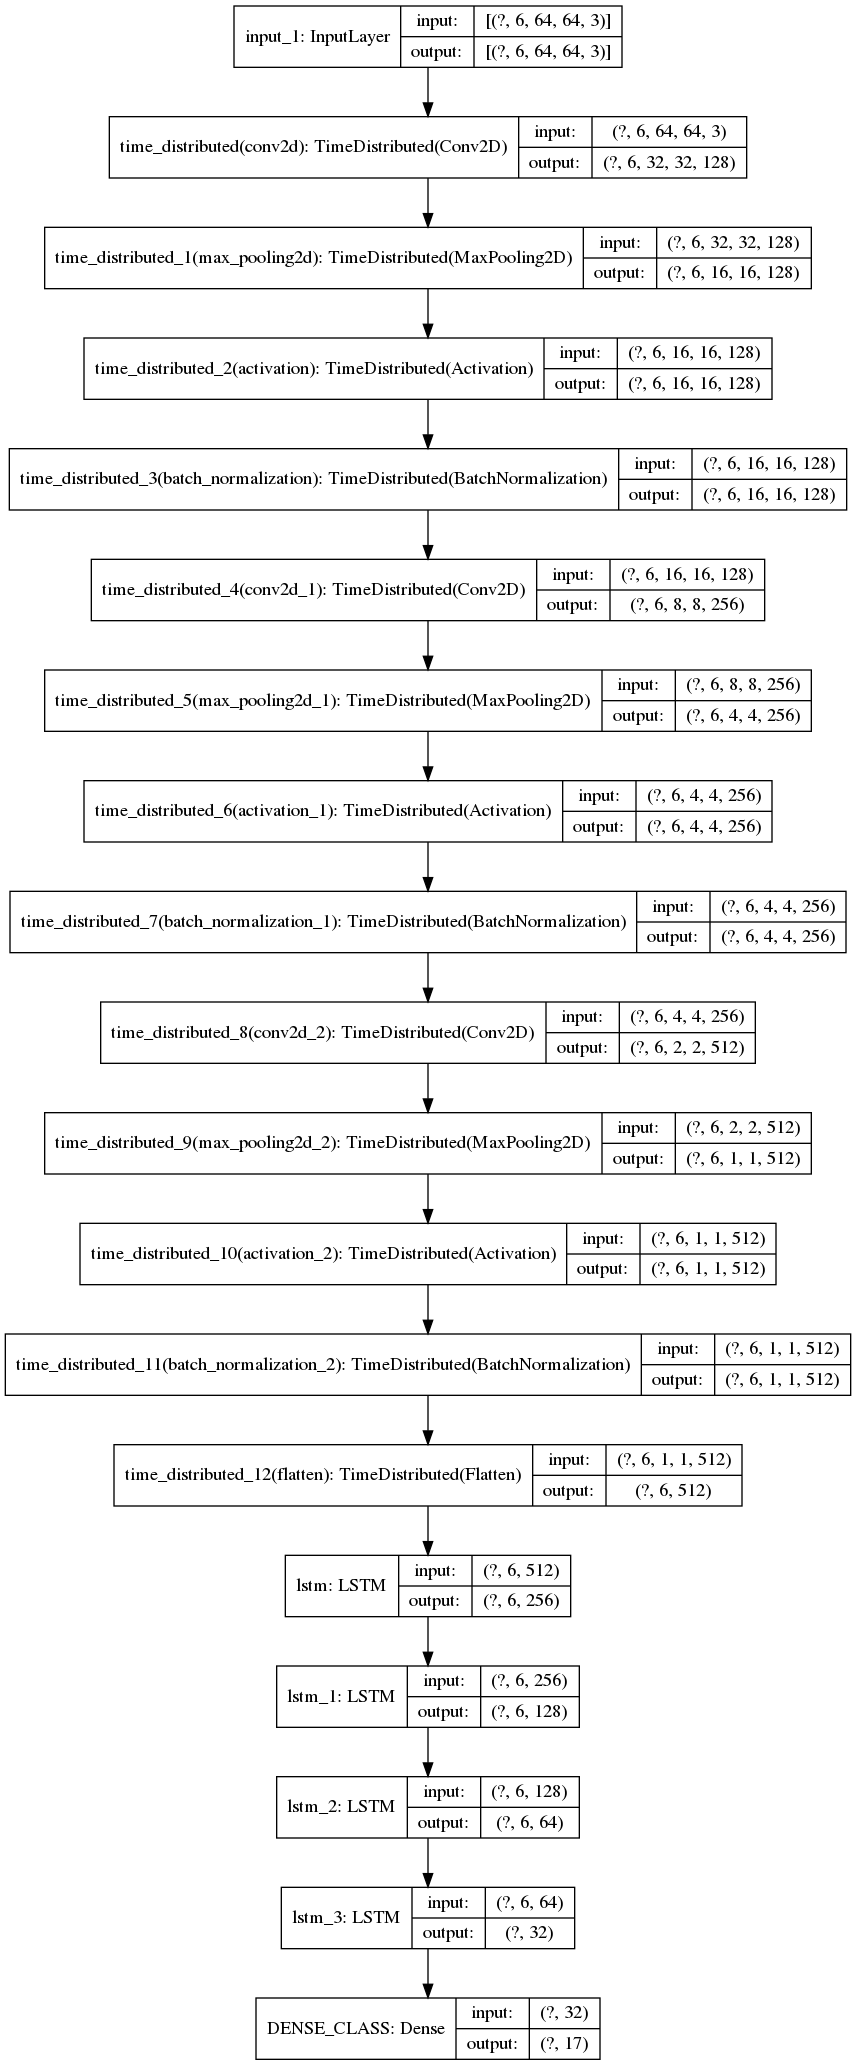
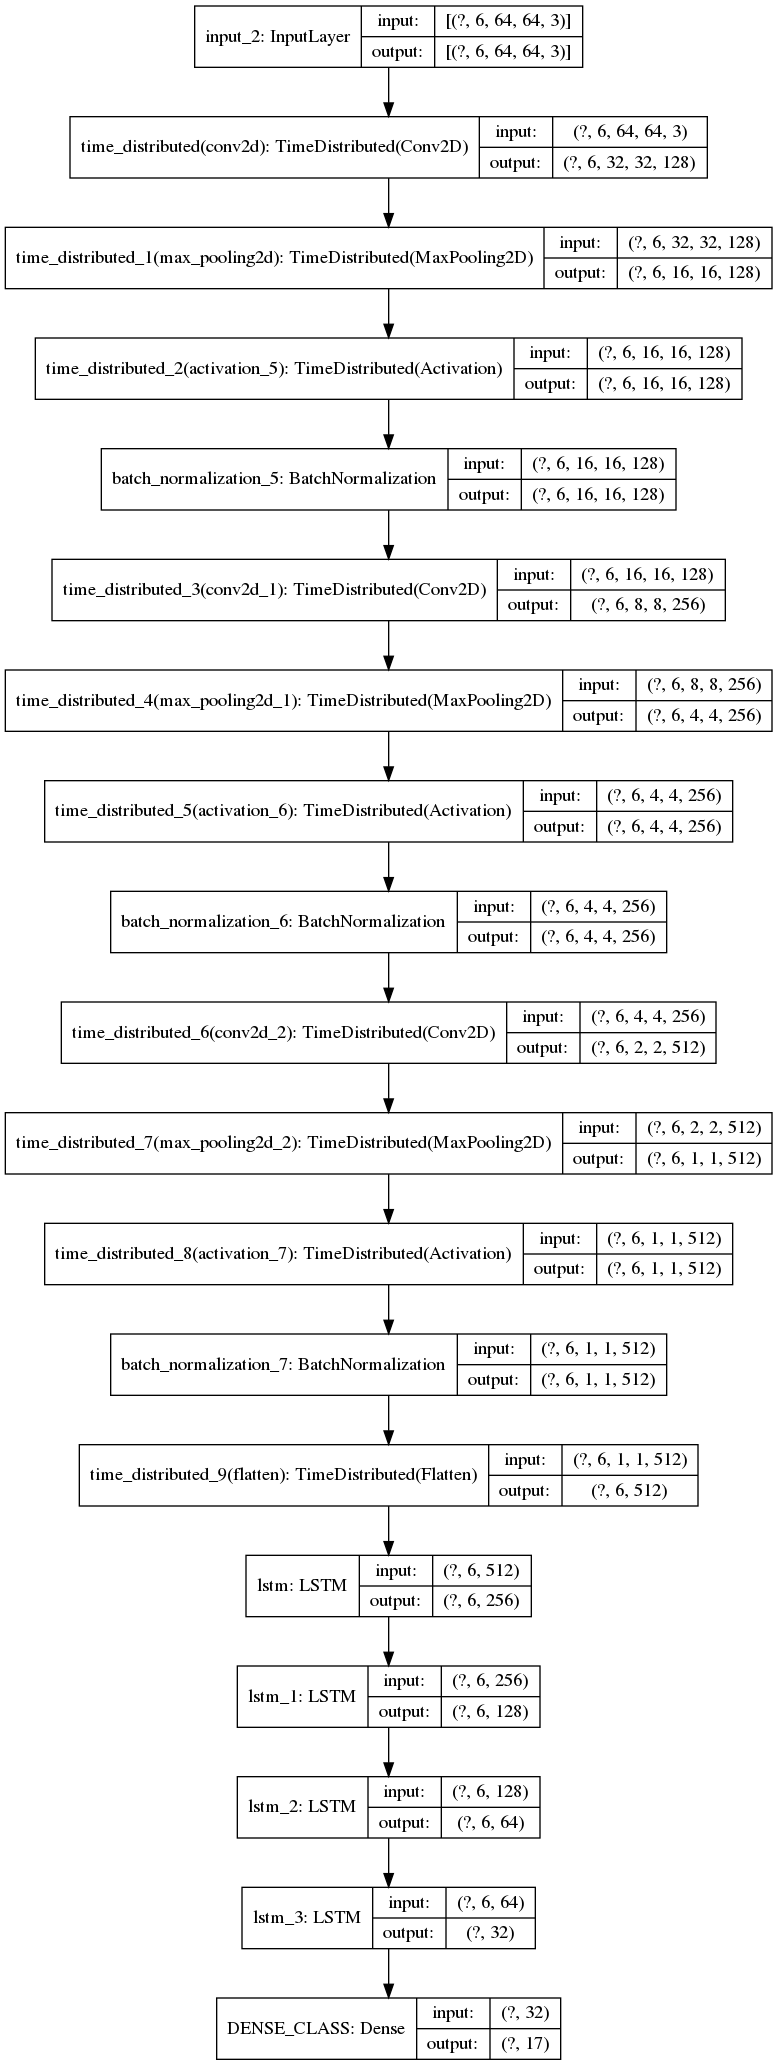
Removed TimeDist BatchNorm (version:1.0.1)

diff --git a/coreLib/model.py b/coreLib/model.py
@@ -45,13 +45,13 @@ def LRCN(seq_len=6,img_dim=64,nb_channels=3,nb_classes=17):
     X=TimeDistributed(Conv2D(128, (3, 3), strides=(2, 2), padding='same'))(IN)
     X=TimeDistributed(MaxPooling2D((2, 2), strides=(2, 2)))(X)
     X=TimeDistributed(Activation('relu'))(X)
-    X=TimeDistributed(BatchNormalization())(X)
+    X=BatchNormalization()(X)
     # conv layer gropus
     for nb_filter in feature_spec:
         X=TimeDistributed(Conv2D(nb_filter, (3, 3), strides=(2, 2), padding='same'))(X)
         X=TimeDistributed(MaxPooling2D((2, 2), strides=(2, 2)))(X)
         X=TimeDistributed(Activation('relu'))(X)
-        X=TimeDistributed(BatchNormalization())(X)
+        X=BatchNormalization()(X)
         
     # FC layers group
     X=TimeDistributed(Flatten())(X)

diff --git a/README.md b/README.md
@@ -1,5 +1,5 @@
 # pyACTRECOG
-    Version: 1.0.0    
+    Version: 1.0.1    
     Author : Md. Nazmuddoha Ansary
                   
 ![](/info/src_img/python.ico?raw=true )
@@ -144,7 +144,7 @@ The adapted model structre is as follow:
 The model is based on the paper [Long-Term Recurrent Convolutional Networks for Visual Recognition and Description](https://ieeexplore.ieee.org/document/7558228) 
 
 * **Differences from Original Paper Version**:
-A Custom **ConvBlock** like structre is used.
+A Custom **ConvBlock** like structre is used. Also please note that the **BatchNorm** layers are **not time distributed**.
 
 The adapted model structre is as follow:
 
